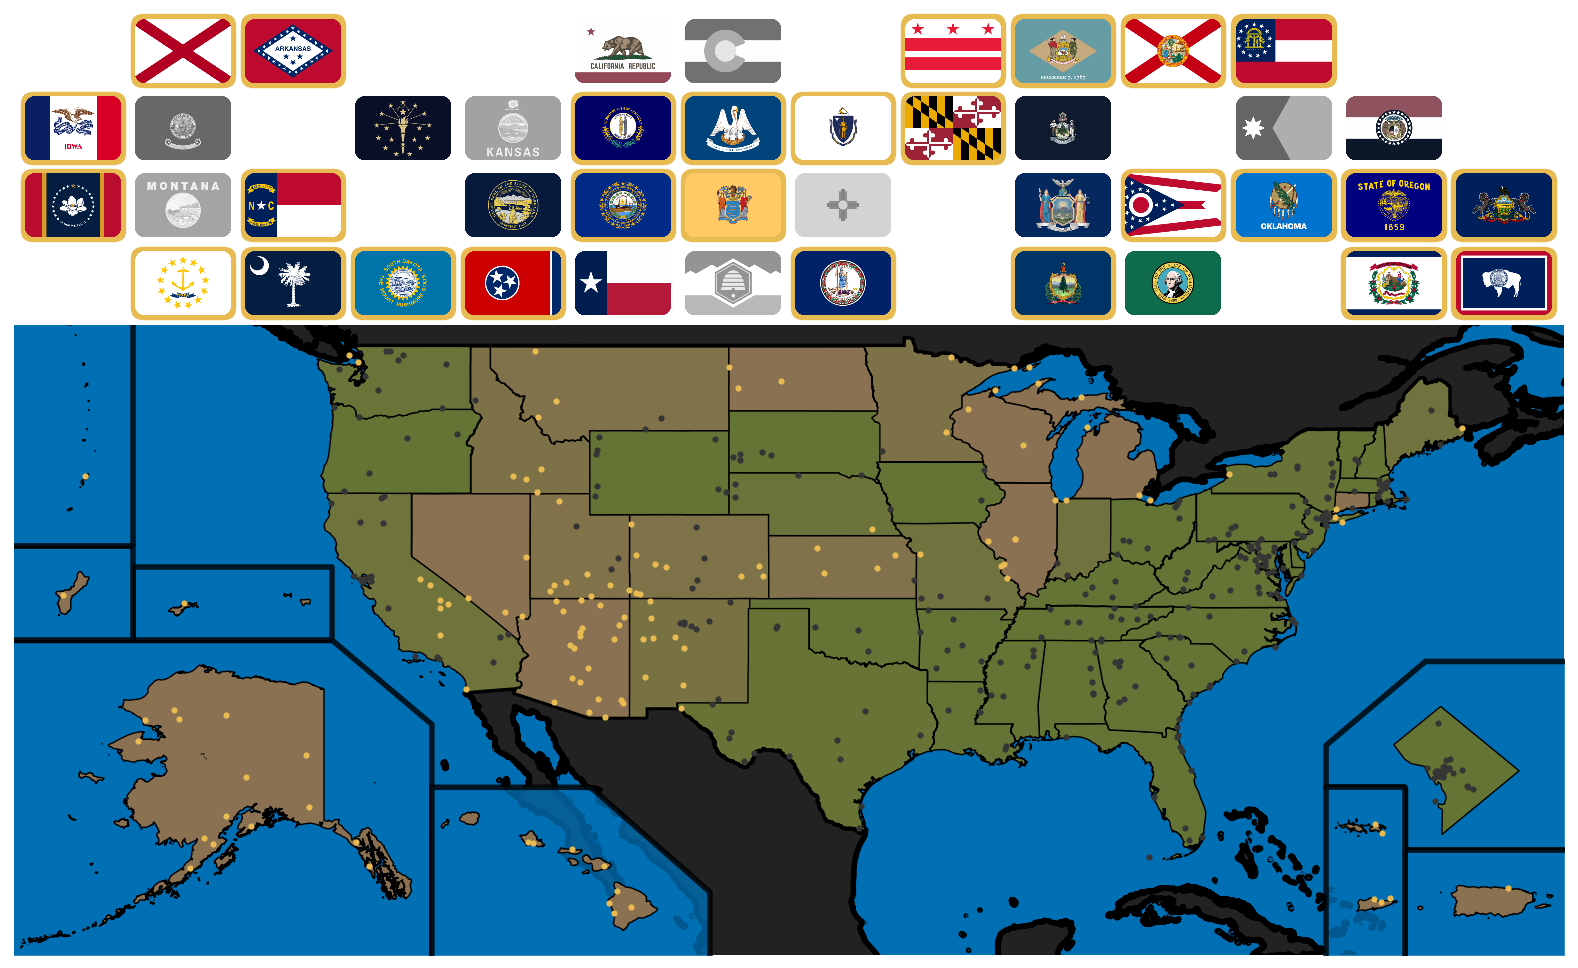
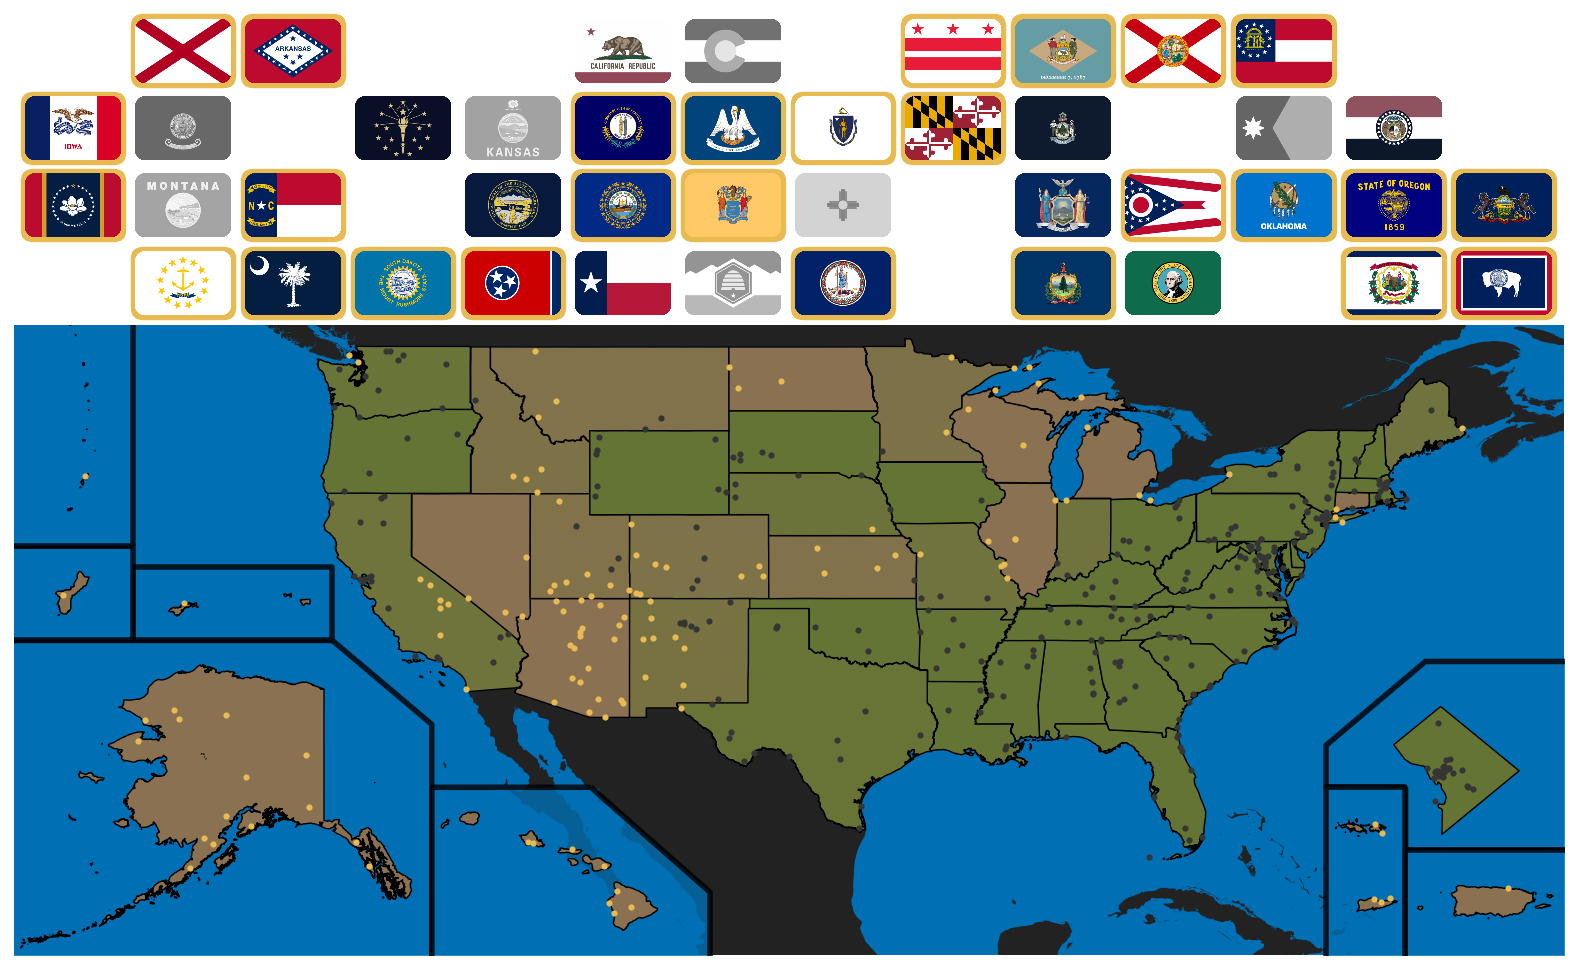
add initial code for city expansion plotting

diff --git a/plotting/plotting_manager.py b/plotting/plotting_manager.py
@@ -22,9 +22,10 @@ from colormap.cmap_maker import CustomCmap
 random.seed(5)
 
 class PlotManager:
-    def __init__(self, points_gdf, submaps, bgmaps, meta_data, path, scale):
+    def __init__(self, points_gdf, submaps, expansions, bgmaps, meta_data, path, scale):
         self.points_gdf = points_gdf
         self.submaps = submaps
+        self.expansions = expansions
         self.bgmaps = bgmaps
         self.meta_data = meta_data
         self.path = path
@@ -99,7 +100,7 @@ class PlotManager:
 
             shapefile_path = os.path.join(self.path, "bg_maps", f"{bgmap}.shp")
             bgmap_gdf = gpd.read_file(shapefile_path)
-            bgmap_gdf.plot(ax=ax, edgecolor="black", linewidth=4/self.plot_scale, color=color, alpha=1)
+            bgmap_gdf.plot(ax=ax, edgecolor="black", linewidth=0, color=color, alpha=1)
         
         # Submap Plotting
         for submap in self.submaps:
@@ -171,6 +172,33 @@ class PlotManager:
             self.points_working.loc[mask, "geometry"] = submap_points["geometry"]
 
             submap_gdf.plot(ax=ax, edgecolor="black", linewidth=1/self.plot_scale, color=color, alpha=1)
+
+        #def expand_regions(gdf, expansions):
+
+        #gdf = gdf.copy()
+
+        #for city in self.expansions:
+        #    xmin, ymin, xmax, ymax = city["bbox"][0], city["bbox"][1], city["bbox"][2], city["bbox"][3]
+        #    scale = city["Scale"]
+        #    shiftx, shifty = city["Shift"]
+        #    shapefile_path = os.path.join(self.path, "submaps", f"{city["Name"]}.shp")
+        #    expansion_gdf = gpd.read_file(shapefile_path)
+        #    # bounding polygon
+        #    box_poly = Polygon([
+        #        (xmin, ymin),
+        #        (xmin, ymax),
+        #        (xmax, ymax),
+        #        (xmax, ymin)
+        #    ])
+        #    if not expansion_gdf.intersects(box_poly):
+        #        #return gdf
+        #        print("No expansion intersection")
+        #    # scale from box center
+        #    cx = (xmin + xmax) / 2
+        #    cy = (ymin + ymax) / 2
+        #    g = affinity.scale(expansion_gdf, xfact=scale, yfact=scale, origin=(cx, cy))
+        #    g = affinity.translate(g, xoff=shiftx, yoff=shifty)
+
 
     def _plot_points(self, ax, current_date, points, a_type="normal"):
 
@@ -273,11 +301,11 @@ class PlotManager:
                 xycoords='axes fraction',
                 pad=0.1,                      # space between image and border
                 bboxprops=dict(
-                    edgecolor=border_color,    # border color
+                    edgecolor=border_color,   # border color
                     linewidth=flag_linewidth, # border thickness
                     boxstyle=f"round,pad=0.3,rounding_size={flag_radius}",  
                                               # rounded corners
-                    facecolor=border_color,    # background behind image
+                    facecolor=border_color,   # background behind image
                     alpha=1.0                 # border opacity
                 )
             )

diff --git a/main.py b/main.py
@@ -12,7 +12,7 @@ from utils.file_utils import ensure_directory_exists
 
 
 # US National Park Global Variables
-#PATH = "us"
+PATH = "us"
 
 # Germany Global Variables
 #PATH = "de"
@@ -21,7 +21,7 @@ from utils.file_utils import ensure_directory_exists
 #PATH = "eu"
 
 # Iran Global Variables
-PATH = "ir"
+#PATH = "ir"
 
 # Ensure output folders exist
 ensure_directory_exists("plots/temp")
@@ -32,6 +32,7 @@ ensure_directory_exists("gifs")
 meta_data = MetaLoader(PATH).load()
 points_gdf = PointsLoader(PATH).load()
 submaps = meta_data["Submaps"]
+expansions = meta_data["Expansions"]
 bgmaps = BGmapsLoader(PATH).load()
 
 # Create a sorted values df
@@ -42,6 +43,7 @@ old_date = None
 plot_manager = PlotManager(
     points_gdf=points_gdf,
     submaps=submaps,
+    expansions=expansions,
     bgmaps=bgmaps,
     meta_data=meta_data,
     path=PATH,
@@ -50,13 +52,13 @@ plot_manager = PlotManager(
 
 # Add first plot
 current_date = points_sorted['date'].min() - datetime.timedelta(days=1)
-plot_manager.generate_plot(current_date, points_sorted.iloc[0], copy=True)
+#plot_manager.generate_plot(current_date, points_sorted.iloc[0], copy=True)
 
 # Plot all dates
 for _, row in points_sorted.iterrows():
     current_date = row['date']
     if pd.notna(current_date) and current_date != old_date:
-        plot_manager.generate_plot(current_date, row)
+        #plot_manager.generate_plot(current_date, row)
         old_date = current_date
 
 # Create Last Plot
@@ -69,19 +71,19 @@ gif = GifGenerator(
         output_gif=f"./gifs/{PATH}_{1}.gif",
         duration=200
     )
-gif.generate()
+#gif.generate()
 
 # Large Plot
-plot_manager = PlotManager(
-    points_gdf=points_gdf,
-    submaps=submaps,
-    bgmaps=bgmaps,
-    meta_data=meta_data,
-    path=PATH,
-    scale=5
-)
+#plot_manager = PlotManager(
+#    points_gdf=points_gdf,
+#    submaps=submaps,
+#    bgmaps=bgmaps,
+#    meta_data=meta_data,
+#    path=PATH,
+#    scale=5
+#)
 
-plot_manager.generate_plot(old_date, row, copy=False)
+#plot_manager.generate_plot(old_date, row, copy=False)
 
 # File Cleanup
 gif.cleanup_temp()
